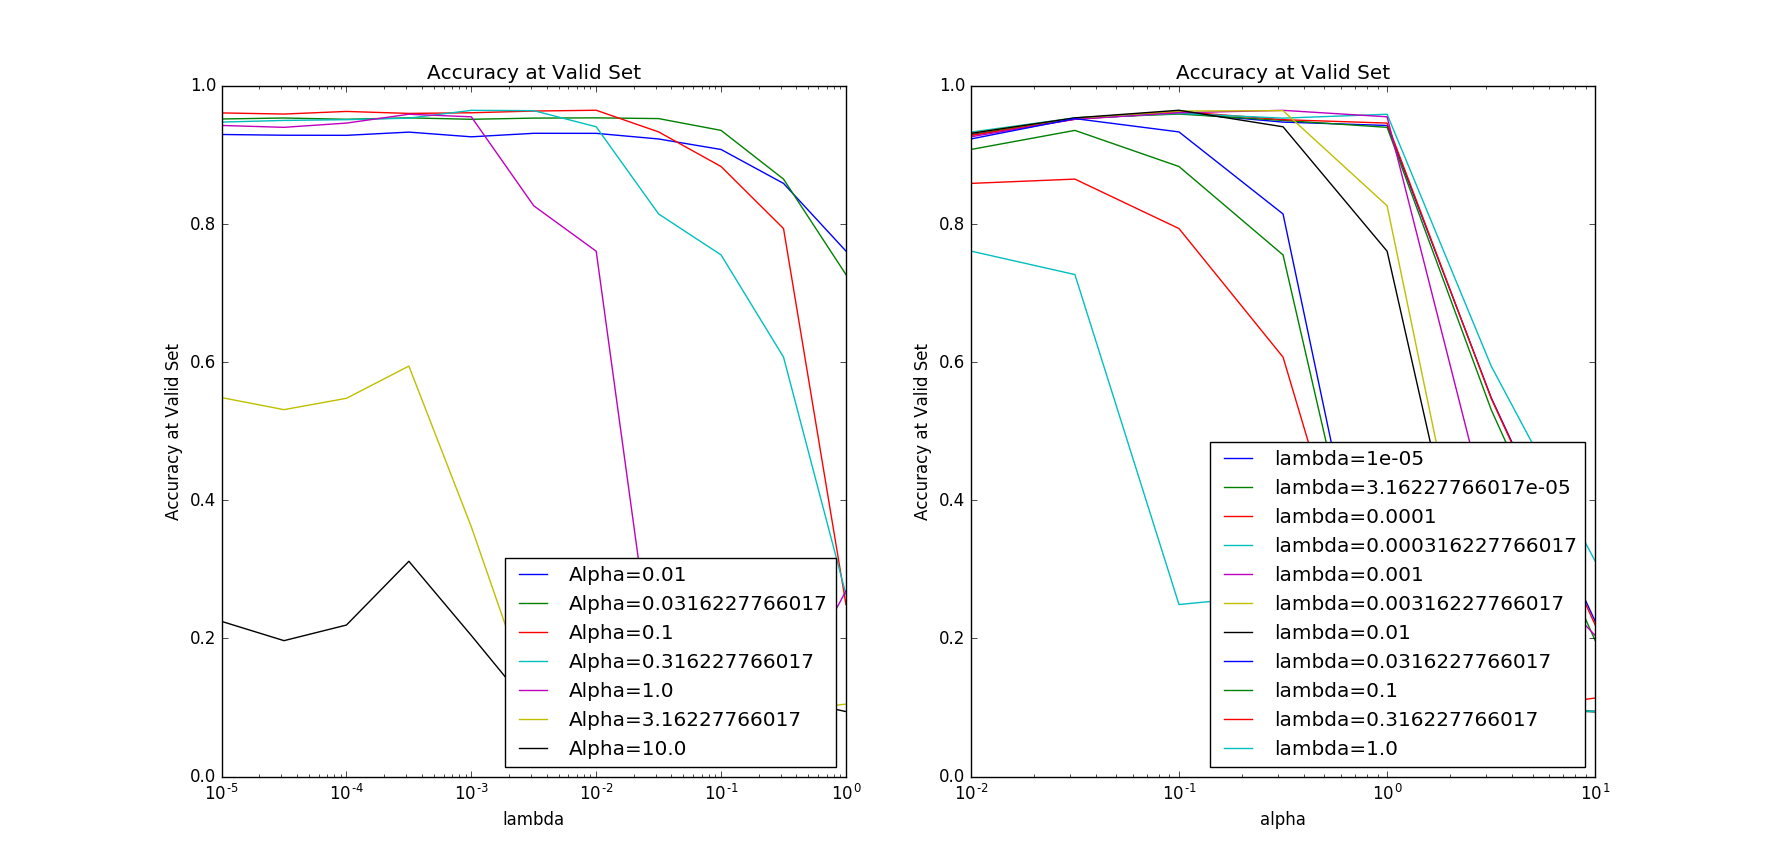
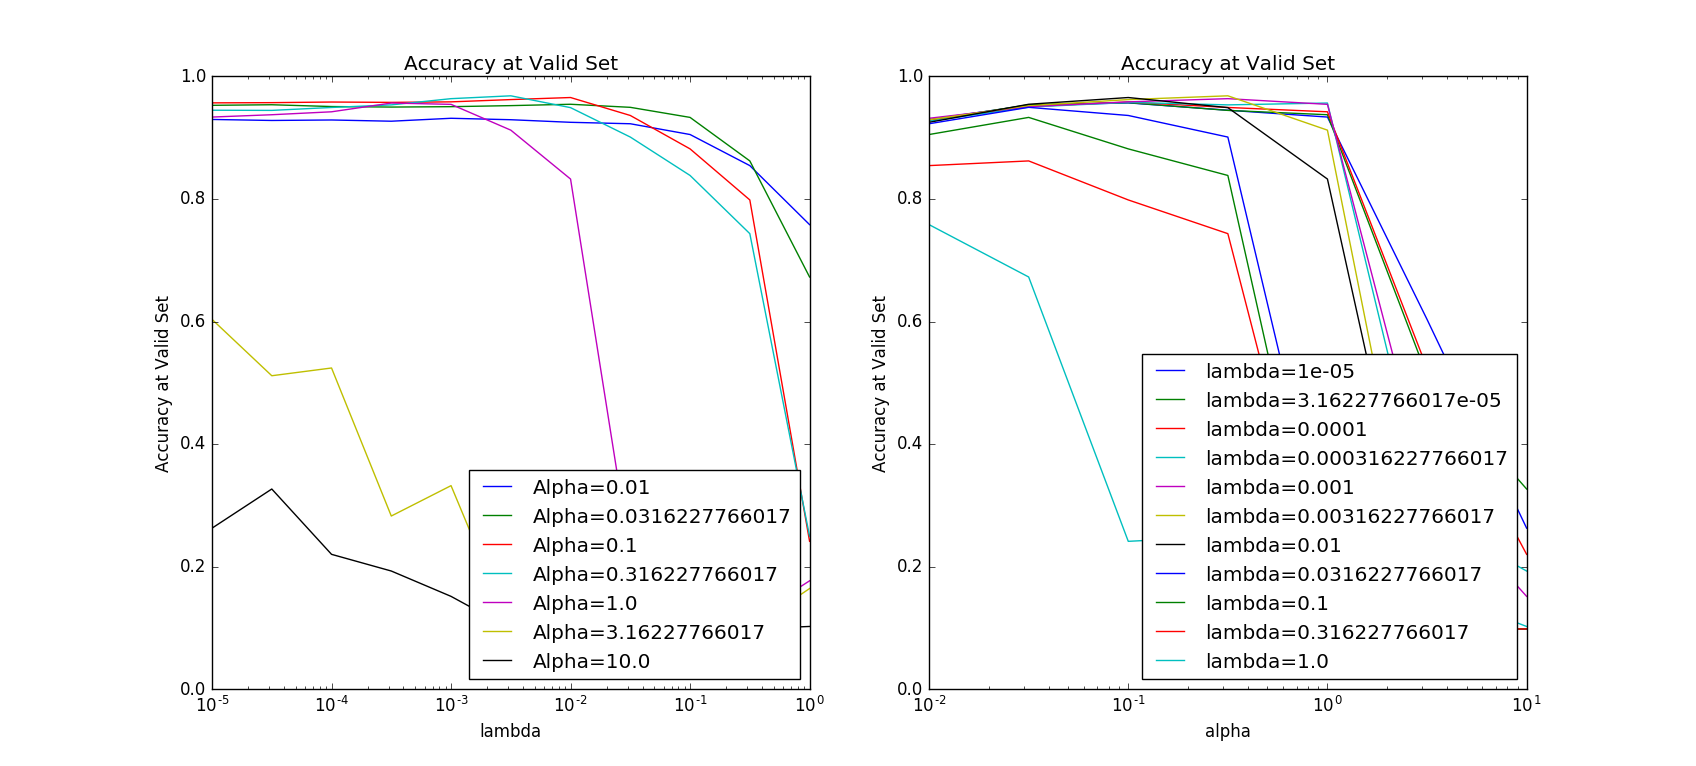
Added LeNet-5

diff --git a/MNIST/TensorFlow_NN_3.py b/MNIST/TensorFlow_NN_3.py
@@ -52,32 +52,36 @@ if __name__ == '__main__':
 	_batch_size = 128
 	_graph = tf.Graph()
 	with _graph.as_default():
-		_tf_X_train = tf.placeholder(tf.float32, shape=(_batch_size, _num_of_features))
-		_tf_y_train = tf.placeholder(tf.float32, shape=(_batch_size, _num_labels))
-		
+		_tf_lambda = tf.placeholder(tf.float32)
+		_tf_alpha = tf.placeholder(tf.float32)
+		_tf_keep_prob = tf.placeholder(tf.float32)
+		_tf_X = tf.placeholder(tf.float32, shape=(_batch_size, _num_of_features))
+		_tf_y = tf.placeholder(tf.float32, shape=(_batch_size, _num_labels))
+
 		_tf_X_valid = tf.constant(_X_valid_norm, dtype=tf.float32)
-		_tf_X_test  = tf.constant(_X_test_norm, dtype=tf.float32)
+		_tf_X_test = tf.constant(_X_test_norm, dtype=tf.float32)
 		
 		_weights1 = tf.Variable(tf.truncated_normal([_num_of_features, _n_of_hidden_nodes]), dtype=tf.float32)
 		_biases1 = tf.Variable(tf.zeros([_n_of_hidden_nodes]), dtype=tf.float32)
 		_weights2 = tf.Variable(tf.truncated_normal([_n_of_hidden_nodes, _num_labels]), dtype=tf.float32)
 		_biases2 = tf.Variable(tf.zeros([_num_labels]), dtype=tf.float32)
-		_tf_lambda = tf.placeholder(tf.float32)
-		_tf_alpha = tf.placeholder(tf.float32)
 
-		_hidden_hypo = tf.nn.relu(tf.matmul(_tf_X_train, _weights1) + _biases1)
-		_hidden_hypo_drop = tf.nn.dropout(_hidden_hypo,0.5)
-		_logits = tf.matmul(_hidden_hypo_drop, _weights2) + _biases2
-		_loss = tf.reduce_mean(tf.nn.softmax_cross_entropy_with_logits(_logits, _tf_y_train))+ 0.5 * _tf_lambda * (tf.nn.l2_loss(_weights1) + tf.nn.l2_loss(_weights2))
+		def model(_data, _tf_keep_prob):
+			_hidden_hypo = tf.nn.relu(tf.matmul(_data, _weights1) + _biases1)
+			_hidden_hypo_drop = tf.nn.dropout(_hidden_hypo, _tf_keep_prob)
+			_logits = tf.matmul(_hidden_hypo_drop, _weights2) + _biases2
+			return _logits
+		def predict(_data):
+			return tf.nn.softmax(model(_data, 1.0))
 
-		_optimizer = tf.train.AdagradOptimizer(_tf_alpha).minimize(_loss)
-
-		_train_prediction = tf.nn.softmax(_logits)
-		_valid_prediction = tf.nn.softmax(tf.matmul(tf.nn.relu(tf.matmul(_tf_X_valid, _weights1) + _biases1), _weights2) + _biases2)
-		_test_prediction = tf.nn.softmax(tf.matmul(tf.nn.relu(tf.matmul(_tf_X_test, _weights1) + _biases1), _weights2) + _biases2)
+		_tf_logits = model(_tf_X, _tf_keep_prob)
+		_tf_loss = tf.reduce_mean(tf.nn.softmax_cross_entropy_with_logits(_tf_logits, _tf_y))+ 0.5 * _tf_lambda * (tf.nn.l2_loss(_weights1) + tf.nn.l2_loss(_weights2))
+		_tf_optimizer = tf.train.AdagradOptimizer(_tf_alpha).minimize(_tf_loss)
+		_tf_prediction = tf.nn.softmax(_tf_logits)
 
 	def accuracy(_predictions, _labels):
 		return ( np.sum(np.argmax(_predictions, 1) == np.argmax(_labels, 1)) / float(_predictions.shape[0]) )
+
 
 	#***Learning****************************
 	print '*****************************'
@@ -86,51 +90,51 @@ if __name__ == '__main__':
 	_alpha_list = np.logspace(-2,1,7)
 	_lambda_list = np.logspace(-5,0,11)
 	_scores = np.ndarray( (len(_alpha_list), len(_lambda_list) ), dtype=float)
-	with tf.Session(graph=_graph) as _session:
-		_best_accuracy_valid = None
-		_best_alpha = None
-		_best_lambda = None
-		for _al_index, _alpha in enumerate(_alpha_list):
-			for _lam_index, _lambda in enumerate(_lambda_list):
-				tf.initialize_all_variables().run()
+	for _al_index, _alpha in enumerate(_alpha_list):
+		for _lam_index, _lambda in enumerate(_lambda_list):
+			with tf.Session(graph=_graph) as _session:
+				_session.run(tf.initialize_all_variables())
 				for _step in range(_num_steps):
-					#_delta=100.0
 					_offset = (_step * _batch_size) % (_num_train_dataset - _batch_size)
 					_batch_data		= _X_train_norm[_offset:(_offset + _batch_size), :]
 					_batch_labels	= _y_train[_offset:(_offset + _batch_size)]
-					_feed_dict = {_tf_X_train : _batch_data, _tf_y_train : _batch_labels, _tf_lambda: _lambda, _tf_alpha:_alpha}
-					_, _l, _predictions = _session.run([_optimizer, _loss, _train_prediction], feed_dict=_feed_dict)
-					if (_step % 500 == 0):
-						_accuracy_valid = accuracy(_valid_prediction.eval(), _y_valid)
-						if _best_accuracy_valid is None or _accuracy_valid>_best_accuracy_valid:
-							#if _best_accuracy_valid is not None: _delta = _accuracy_valid - _best_accuracy_valid;
-							_best_accuracy_valid = _accuracy_valid
-							_best_alpha = _alpha
-							_best_lambda = _lambda
-							#if _delta < 0.001: break;
-				_accuracy_valid = accuracy(_valid_prediction.eval(), _y_valid)
+					_feed_dict = {_tf_X:_batch_data, _tf_y:_batch_labels, _tf_lambda: _lambda, _tf_alpha:_alpha, _tf_keep_prob:0.5}
+					_, _l, _predictions = _session.run([_tf_optimizer, _tf_loss, _tf_prediction], feed_dict=_feed_dict)
+				_predict_valid = _session.run(predict(_tf_X_valid))
+				_accuracy_valid = accuracy(_predict_valid, _y_valid)
 				_scores[_al_index, _lam_index] = _accuracy_valid
 				print 'alpha='+str(_alpha)+',\tlambda='+str(_lambda)+',\tValidAccuracy='+str(_accuracy_valid)
 
-		tf.initialize_all_variables().run()
+	_best_accuracy_valid = None
+	_best_alpha = None
+	_best_lambda = None
+	for _al_index, _alpha in enumerate(_alpha_list):
+		for _lam_index, _lambda in enumerate(_lambda_list):
+			if _best_accuracy_valid is None or _scores[_al_index, _lam_index]>_best_accuracy_valid:
+				_best_accuracy_valid = _scores[_al_index, _lam_index]
+				_best_alpha = _alpha_list[_al_index]
+				_best_lambda = _lambda_list[_lam_index]
+
+	with tf.Session(graph=_graph) as _session:
+		_session.run(tf.initialize_all_variables())
 		for _step in range(_num_steps):
 			_offset = (_step * _batch_size) % (_num_train_dataset - _batch_size)
 			_batch_data		= _X_train_norm[_offset:(_offset + _batch_size), :]
 			_batch_labels	= _y_train[_offset:(_offset + _batch_size)]
-			_feed_dict = {_tf_X_train : _batch_data, _tf_y_train : _batch_labels, _tf_lambda: _best_lambda, _tf_alpha:_best_alpha}
-			_, _l, _predictions = _session.run([_optimizer, _loss, _train_prediction], feed_dict=_feed_dict)
-		print 'End Learning'
-		print 'Validation Best Accuracy:', _best_accuracy_valid
-		print 'Validation Best Error Rate:', (1.0-_best_accuracy_valid)
-		print 'Validation Best Alpha:', _best_alpha
-		print 'Validation Best Lambda:', _best_lambda
-		print '*****************************'
-		print 'Test Accuracy:', accuracy(_test_prediction.eval(), _y_test)
-		print 'Test Error Rate:', (1.0-accuracy(_test_prediction.eval(), _y_test))
-		_test_predict_final = _test_prediction.eval().copy()
-
-		_time_end = time.time()
-		print 'time for learning:', str(_time_end-_time_start) + 'sec\t(' + str((_time_end-_time_start)/60.0) + 'min)'
+			_feed_dict = {_tf_X:_batch_data, _tf_y:_batch_labels, _tf_lambda:_best_lambda, _tf_alpha:_best_alpha, _tf_keep_prob:0.5}
+			_, _l, _predictions = _session.run([_tf_optimizer, _tf_loss, _tf_prediction], feed_dict=_feed_dict)
+		_predict_test = _session.run(predict(_tf_X_test))
+		_accuracy_test = accuracy(_predict_test, _y_test)
+	_time_end = time.time()
+	print 'End Learning'
+	print '*****************************'
+	print 'time for learning:', str(_time_end-_time_start) + 'sec\t(' + str((_time_end-_time_start)/60.0) + 'min)'
+	print 'Validation Best Accuracy:', _best_accuracy_valid
+	print 'Validation Best Error Rate:', (1.0-_best_accuracy_valid)
+	print 'Validation Best Alpha:', _best_alpha
+	print 'Validation Best Lambda:', _best_lambda
+	print 'Test Accuracy:', _accuracy_test
+	print 'Test Error Rate:', (1.0-_accuracy_test)
 
 	plt.subplot(1, 2, 1)
 	for _al_index, _alpha in enumerate(_alpha_list):
@@ -152,10 +156,10 @@ if __name__ == '__main__':
 	plt.show()
 
 	_p = np.random.random_integers(0, len(_X_test), 25)
-	_samples = np.array(list(zip(_X_test,_y_test,_test_predict_final)))[_p]
-	for _index, (_data, _y_val_test, _test_predict_final_val) in enumerate(_samples):
+	_samples = np.array(list(zip(_X_test,_y_test,_predict_test)))[_p]
+	for _index, (_data, _y_val_test, _predict_test_val) in enumerate(_samples):
 		_label = np.argmax(_y_val_test)
-		_predicted_label = np.argmax(_test_predict_final_val)
+		_predicted_label = np.argmax(_predict_test_val)
 		plt.subplot(5,5,_index+1)
 		plt.axis('off')
 		plt.imshow(_data.reshape(28,28), cmap=cm.gray_r, interpolation='nearest')

diff --git a/MNIST/TensorFlow_CNN_LeNet5.py b/MNIST/TensorFlow_CNN_LeNet5.py
@@ -20,7 +20,6 @@ if __name__ == '__main__':
 	print 'y:', _y.shape
 
 	print 'number of points of dataset:', _X.shape[0]
-	#print 'number of dimension:', _X.shape[1],'x', _X.shape[2]
 
 	_num_dataset = len(_X)
 	_rand_index = np.random.permutation(_num_dataset)
@@ -46,8 +45,8 @@ if __name__ == '__main__':
 	del(_rand_index)
 
 	#*********Definition ********************
-	#_num_steps = 3001
-	_num_steps = 11
+	_num_steps = 3001
+	#_num_steps = 11
 	_batch_size = 128
 	_patch_size = 5
 	_depth = 16
@@ -56,10 +55,12 @@ if __name__ == '__main__':
 	with _graph.as_default():
 		_tf_alpha = tf.placeholder(tf.float32)
 		_tf_keep_prob = tf.placeholder(tf.float32)
-		_tf_datasize = tf.placeholder(tf.int32)
 		_tf_X = tf.placeholder(tf.float32, shape=(_batch_size, _image_size, _image_size, 1))
 		_tf_y = tf.placeholder(tf.float32, shape=(_batch_size, _num_labels))
 		
+		_tf_X_valid = tf.constant(_X_valid_norm, dtype=tf.float32)
+		_tf_X_test = tf.constant(_X_test_norm, dtype=tf.float32)
+
 		_weights1 = tf.Variable(tf.truncated_normal([_patch_size, _patch_size, 1, _depth], stddev=0.1), dtype=tf.float32)
 		_biases1 = tf.Variable(tf.zeros([_depth]), dtype=tf.float32)
 		_weights2 = tf.Variable(tf.truncated_normal([_patch_size, _patch_size, _depth, _depth], stddev=0.1), dtype=tf.float32)
@@ -80,7 +81,7 @@ if __name__ == '__main__':
 			_read_out = tf.matmul(_fully_connect1, _weights4)+_biases4
 			return _read_out
 		def predict(_data):
-			return tf.nn.softmax(model(tf.constant(_data, dtype=tf.float32), 1.0))
+			return tf.nn.softmax(model(_data, 1.0))
 
 		_tf_logits = model(_tf_X, _tf_keep_prob)
 		_tf_loss = tf.reduce_mean(tf.nn.softmax_cross_entropy_with_logits(_tf_logits, _tf_y))
@@ -96,49 +97,46 @@ if __name__ == '__main__':
 	_time_start = time.time()
 	_alpha_list = np.logspace(-2,1,7)
 	_scores = np.ndarray(len(_alpha_list), dtype=float)
-	with tf.Session(graph=_graph) as _session:
-		for _al_index, _alpha in enumerate(_alpha_list):
+	for _al_index, _alpha in enumerate(_alpha_list):
+		with tf.Session(graph=_graph) as _session:
 			_session.run(tf.initialize_all_variables())
 			for _step in range(_num_steps):
 				_offset = (_step * _batch_size) % (_num_train_dataset - _batch_size)
 				_batch_data		= _X_train_norm[_offset:(_offset + _batch_size), :]
 				_batch_labels	= _y_train[_offset:(_offset + _batch_size)]
-				_feed_dict = {_tf_X:_batch_data, _tf_y:_batch_labels, _tf_datasize:_batch_size, _tf_alpha:_alpha, _tf_keep_prob:0.5}
+				_feed_dict = {_tf_X:_batch_data, _tf_y:_batch_labels, _tf_alpha:_alpha, _tf_keep_prob:0.5}
 				_, _l, _predictions = _session.run([_tf_optimizer, _tf_loss, _tf_prediction], feed_dict=_feed_dict)
-			#_feed_dict = {_tf_X:_X_valid_norm, _tf_y:None, _tf_datasize:len(_X_valid_norm), _tf_alpha:None, _tf_keep_prob:1.0}
-			#_predict_valid = _session.run(_tf_prediction, feed_dict=_feed_dict)
-			_predict_valid = _session.run(predict(_X_valid_norm))
+			_predict_valid = _session.run(predict(_tf_X_valid))
 			_accuracy_valid = accuracy(_predict_valid, _y_valid)
 			_scores[_al_index] = _accuracy_valid
-			print '***********', _accuracy_valid
 			print 'alpha='+str(_alpha)+',\tValidAccuracy='+str(_accuracy_valid)
 
+	_best_accuracy_valid = None
+	_best_alpha = None
+	for _al_index, _alpha in enumerate(_alpha_list):
+		if _best_accuracy_valid is None or _scores[_al_index]>_best_accuracy_valid:
+			_best_accuracy_valid = _scores[_al_index]
+			_best_alpha = _alpha_list[_al_index]
+
+	with tf.Session(graph=_graph) as _session:
 		_session.run(tf.initialize_all_variables())
 		for _step in range(_num_steps):
 			_offset = (_step * _batch_size) % (_num_train_dataset - _batch_size)
 			_batch_data		= _X_train_norm[_offset:(_offset + _batch_size), :]
 			_batch_labels	= _y_train[_offset:(_offset + _batch_size)]
-			_feed_dict = {_tf_X:_batch_data, _tf_y:_batch_labels, _tf_datasize:_batch_size, _tf_alpha:_best_alpha}
+			_feed_dict = {_tf_X:_batch_data, _tf_y:_batch_labels, _tf_alpha:_best_alpha, _tf_keep_prob:0.5}
 			_, _l, _predictions = _session.run([_tf_optimizer, _tf_loss, _tf_prediction], feed_dict=_feed_dict)
-		_best_accuracy_valid = None
-		_best_alpha = None
-		for _al_index, _alpha in enumerate(_alpha_list):
-			if _best_accuracy_valid is None or _scores[_al_index]>_best_accuracy_valid:
-				_best_accuracy_valid = _scores[_al_index]
-				_best_alpha = _alpha_list[_al_index]
-		print 'End Learning'
-		print 'Validation Best Accuracy:', _best_accuracy_valid
-		print 'Validation Best Error Rate:', (1.0-_best_accuracy_valid)
-		print 'Validation Best Alpha:', _best_alpha
-		print '*****************************'
-		#_feed_dict = {_tf_X:_X_test_norm, _tf_y:None, _tf_datasize:len(_X_test_norm), _tf_alpha:None, _tf_keep_prob:1.0}
-		#_predict_test = _session.run(_tf_prediction, feed_dict=_feed_dict)
-		_predict_test = _session.run(predict(_X_test_norm))
+		_predict_test = _session.run(predict(_tf_X_test))
 		_accuracy_test = accuracy(_predict_test, _y_test)
-		print 'Test Accuracy:', _accuracy_test
-		print 'Test Error Rate:', (1.0-_accuracy_test)
 	_time_end = time.time()
+	print 'End Learning'
+	print '*****************************'
 	print 'time for learning:', str(_time_end-_time_start) + 'sec\t(' + str((_time_end-_time_start)/60.0) + 'min)'
+	print 'Validation Best Accuracy:', _best_accuracy_valid
+	print 'Validation Best Error Rate:', (1.0-_best_accuracy_valid)
+	print 'Validation Best Alpha:', _best_alpha
+	print 'Test Accuracy:', _accuracy_test
+	print 'Test Error Rate:', (1.0-_accuracy_test)
 
 	plt.plot(_alpha_list, _scores)
 	plt.title('Accuracy at Validation Set: CNN LeNet-5')
@@ -148,14 +146,13 @@ if __name__ == '__main__':
 	plt.show()
 
 	_p = np.random.random_integers(0, len(_X_test), 25)
-	_samples = np.array(list(zip(_X_test,_y_test,_predict_test)))[_p]
+	_samples = np.array(list(zip(_X_test.reshape(-1,_image_size,_image_size),_y_test,_predict_test)))[_p]
 	for _index, (_data, _y_val_test, _predict_test_val) in enumerate(_samples):
 		_label = np.argmax(_y_val_test)
 		_predicted_label = np.argmax(_predict_test_val)
 		plt.subplot(5,5,_index+1)
 		plt.axis('off')
 		plt.imshow(_data, cmap=cm.gray_r, interpolation='nearest')
-		#plt.imshow(_data.reshape(28,28), cmap=cm.gray_r, interpolation='nearest')
 		plt.title(str(int(_label))+'/'+str(int(_predicted_label)), color='red')
 	plt.show()
 

diff --git a/MNIST/README.md b/MNIST/README.md
@@ -1,6 +1,9 @@
 Copyright (C) 2016 Daisuke Hashimoto. All Rights Reserved.
 # MNIST
 ## Summary
+* Convolutional Neural Network (LeNet-5)
+  * time = 32min (GPU)
+  * Test Error Rate = 0.0193571428571
 * Neural Network (3 layer)
   * time = 48min (GPU)
   * Test Error Rate = 0.0356428571429
@@ -16,6 +19,30 @@ Copyright (C) 2016 Daisuke Hashimoto. All Rights Reserved.
 * Logistic Regression (Batch Analysis)
   * time = 5.9min
   * Test Error Rate = 0.107933333333
+
+## Convolutional Neural Network: LeNet-5 (Tensor Flow)
+### Lerning Condition
+* number of features: 28x28 = 784
+* number of training sets: 42000
+* number of training sets: 14000
+* number of test sets: 14000
+* dropout: 0.5
+* Grid Search
+  * Learning Rate: 7 patterns
+
+### Results
+* Validation Results
+  * Time of training(GPU) = 1915sec (32min)
+  * Best Score=0.981142857143
+  * Best Parm={'alpha':0.1}
+* Test Results
+  * Accuracy=0.980642857143
+  * Error Rate=0.0193571428571
+
+![Accuracy CNN Lenet-5](TensorFlow_CNN_LeNet5_accuracy.png)
+
+Actual Value/Prediction
+![Prediction CNN Lenet-5](TensorFlow_CNN_LeNet5_prediction.png)
 
 ## 3-layer Neural Network (Tensor Flow)
 ### Lerning Condition
